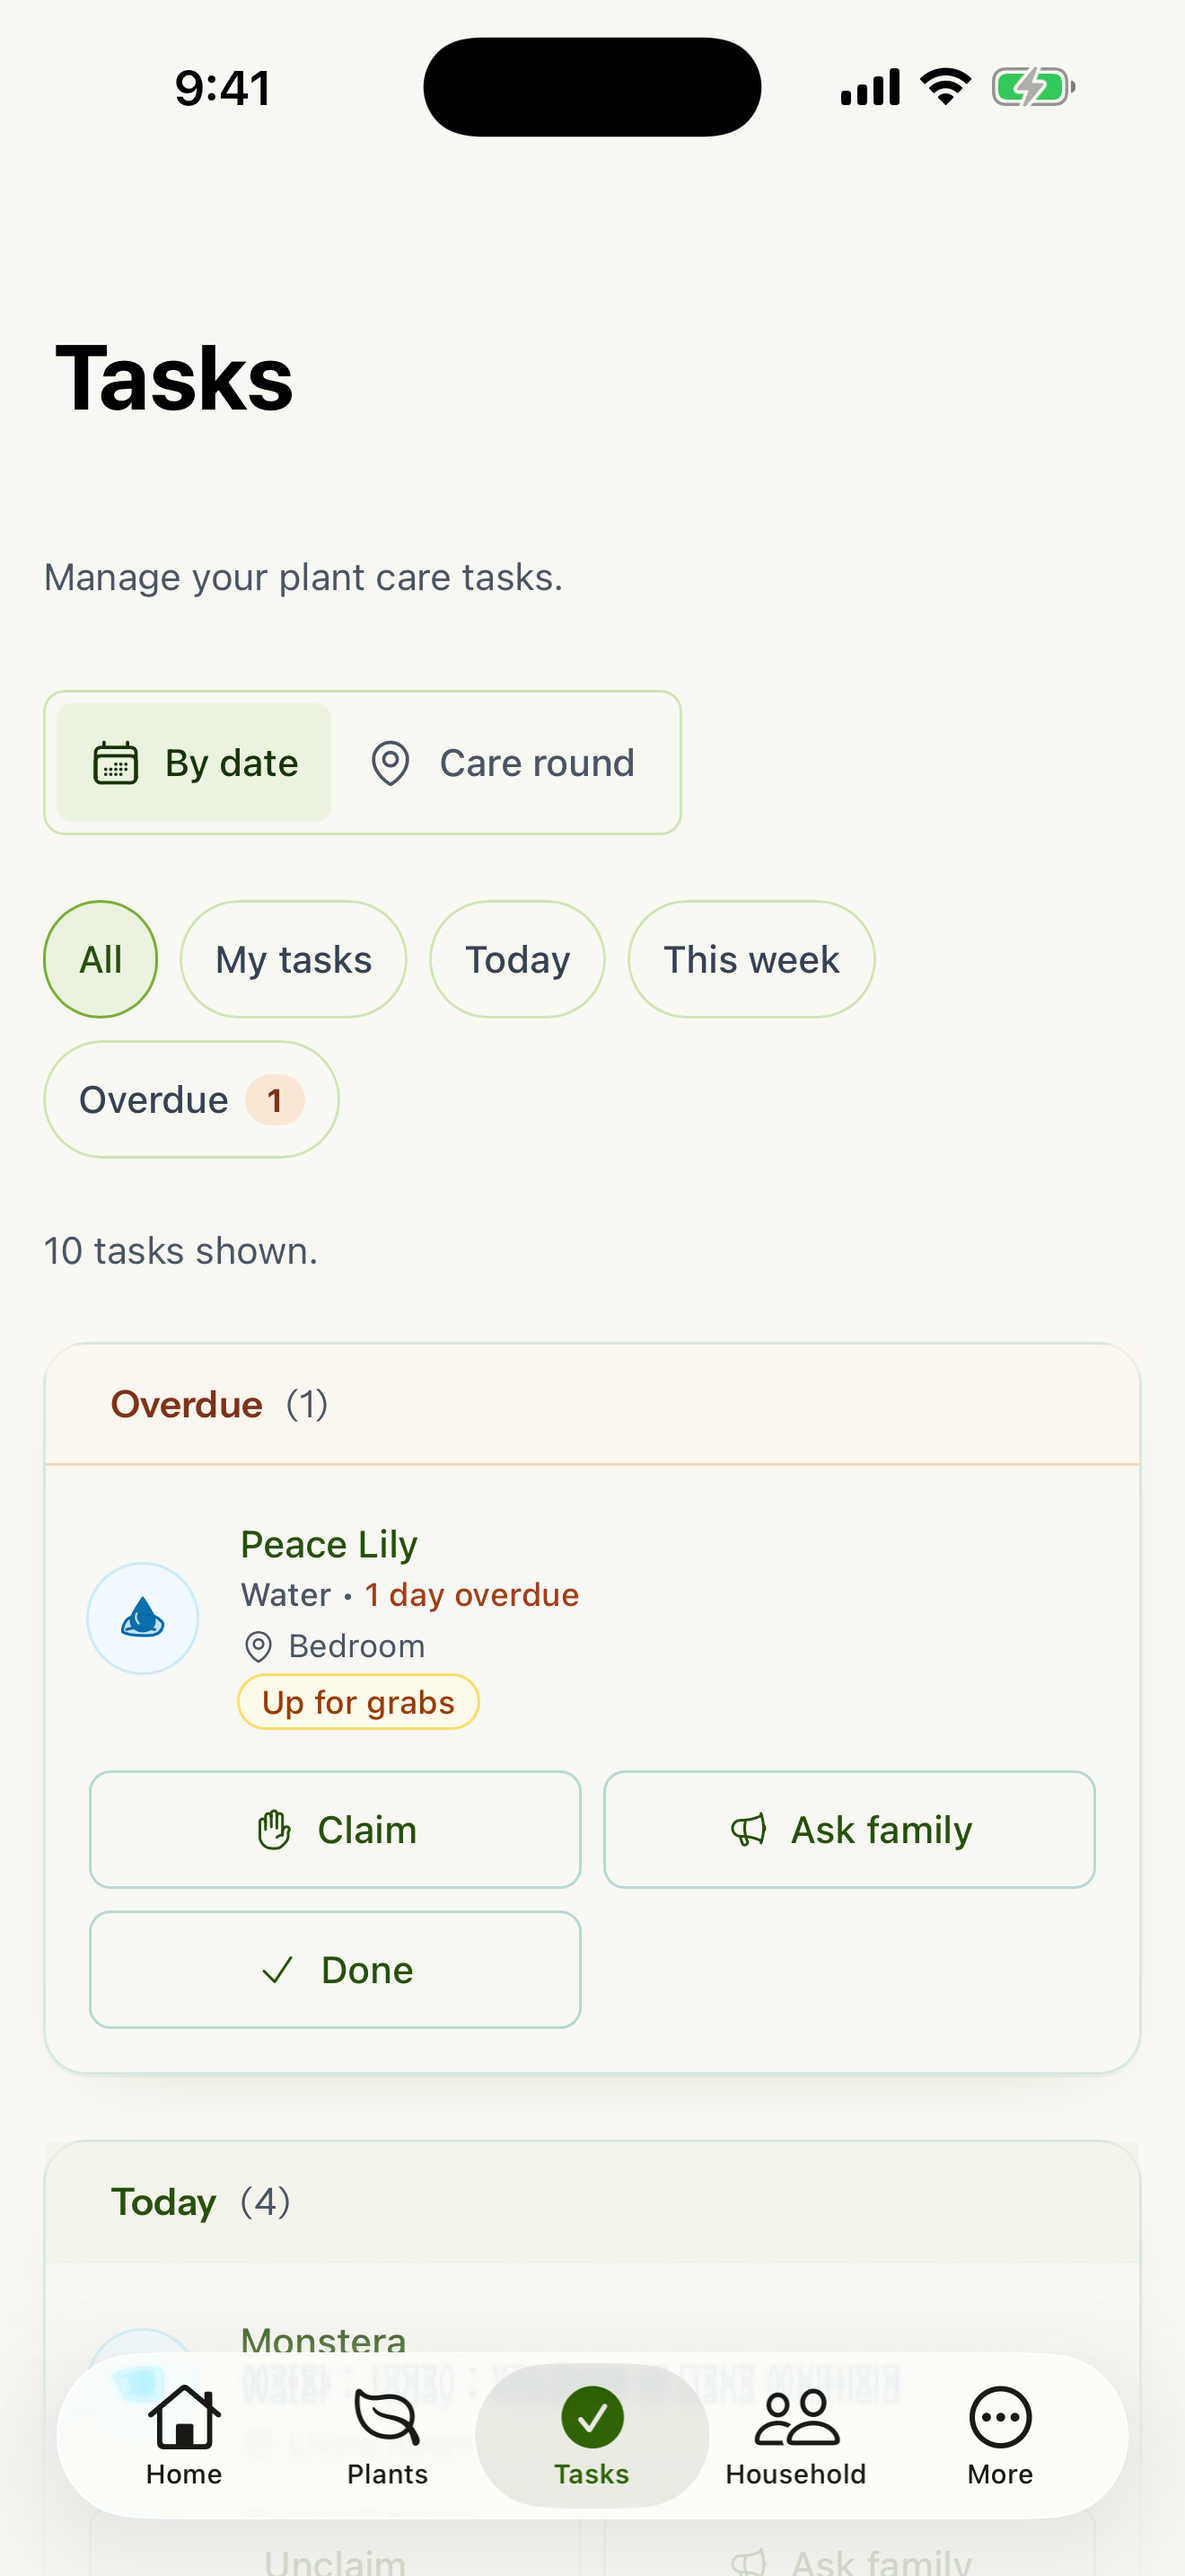
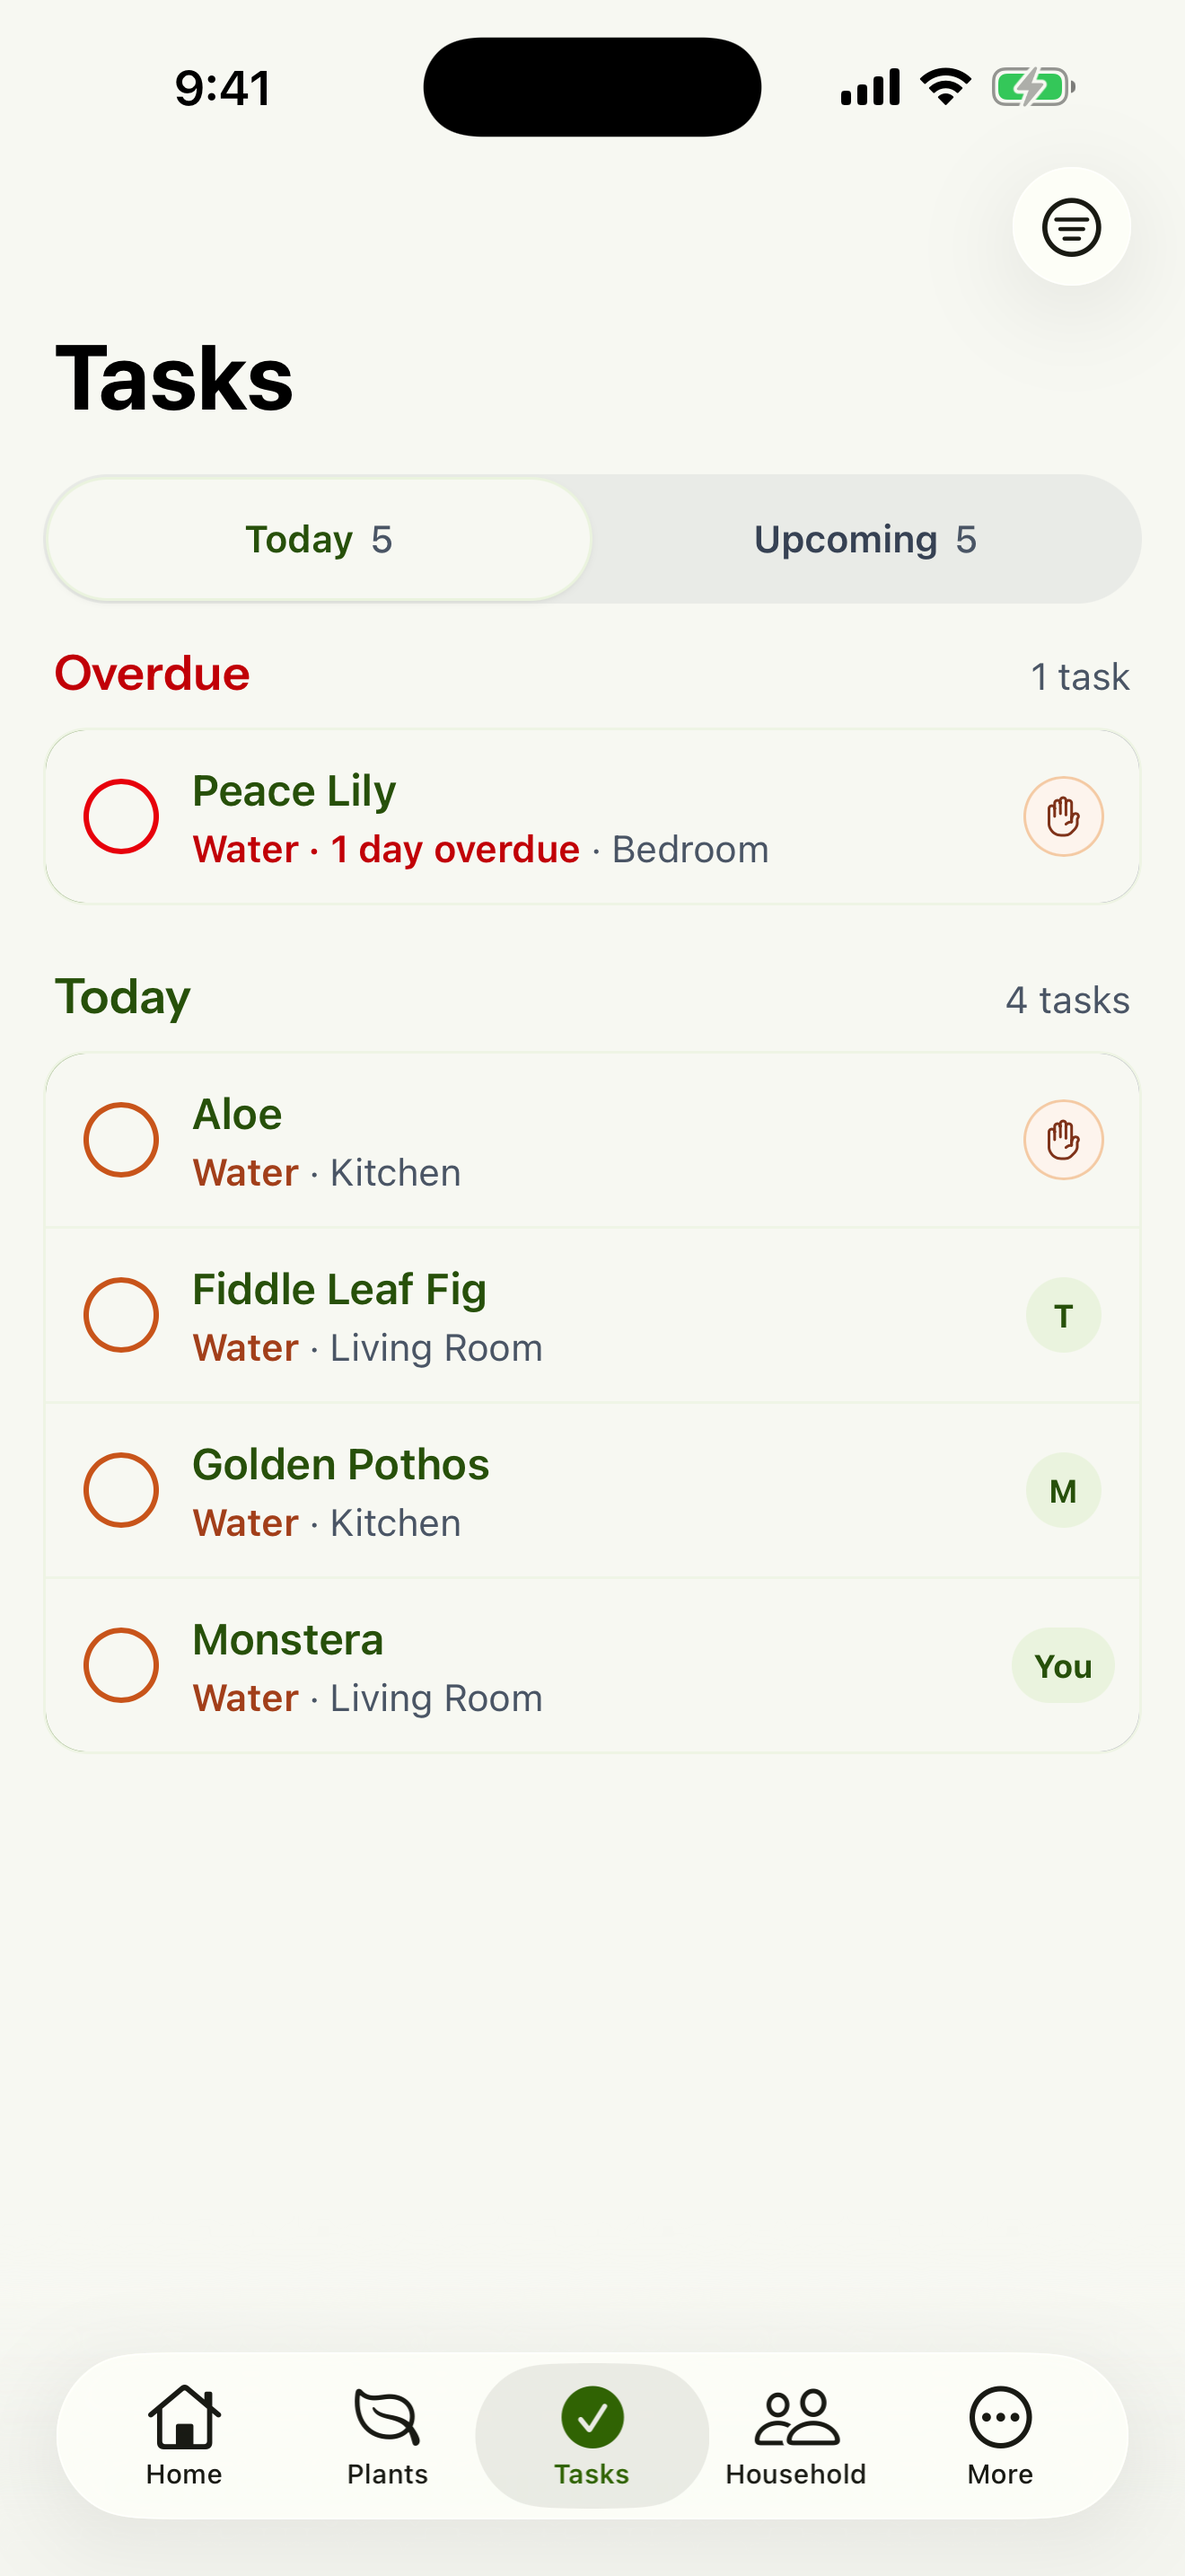
feat(store): re-take the iphone tasks screenshot for the checklist (#942)
The Tasks tab is now a checklist (#926 to #930), so 05-tasks showed a
screen the app no longer has. Re-taken from main with a fresh
SEED_STORE_DEMO=1 mock. The other seven frames still match main.

diff --git a/docs/APP-STORE.md b/docs/APP-STORE.md
@@ -324,16 +324,16 @@ exist at 1320 x 2868.
 The iPad frames come from `npm run store:screenshots --workspace frontend`
 (Playwright), as before.
 
-| #   | iPhone frame  | Real content                                                                                                                                                                                                                                                                                                           |
-| --- | ------------- | ---------------------------------------------------------------------------------------------------------------------------------------------------------------------------------------------------------------------------------------------------------------------------------------------------------------------- |
-| 01  | Plants        | The Plants tab: the large title, the ⋯, filter and + buttons in the native navigation bar, the search field, and the list led by "Needs care": 5 plants with what each needs, its room, who holds it ("You", a member's initial, or up for grabs) and a round water button; then "Coming up" with 3 more.              |
-| 02  | Home          | Dana's Home tab with its large title: 8 plants, 4 due today, 1 overdue; "To do now" with the overdue Peace Lily up for grabs and today's Monstera held by Dana Whitfield.                                                                                                                                              |
-| 03  | Plant detail  | The Monstera, opened from Plants (back chevron, title and ⋯ menu in the navigation bar): the status card ("Water today", "You · last by Marisol Reyes, 7 days ago", Watered and Snooze), the house rule ("Bottom-water this one") and the household's note. The thumbnail is the brand placeholder image, not a photo. |
-| 04  | Plant care    | The same page further down: the curated care tips for _Monstera deliciosa_ (light, water, humidity, notes) and its weekly watering task with its streak.                                                                                                                                                               |
-| 05  | Tasks         | The Tasks tab: the overdue Peace Lily marked "Up for grabs", with Claim, Ask family and Done.                                                                                                                                                                                                                          |
-| 06  | Household     | The Household tab: "Who's carrying the care", with each member's care in the last 30 days and jobs held now, and 4 jobs up for grabs.                                                                                                                                                                                  |
-| 07  | Plant sitter  | The page Dana's "Long weekend" sitter link opens, in the app: what needs doing, in which room, with Done buttons, no account needed, and the date the link stops working. The capture creates the link.                                                                                                                |
-| 08  | Notifications | Settings, Notifications: the email reminder, the weekly digest and the household emails, as switches. No push setting: this release sends reminders by email.                                                                                                                                                          |
+| #   | iPhone frame  | Real content                                                                                                                                                                                                                                                                                                                                             |
+| --- | ------------- | -------------------------------------------------------------------------------------------------------------------------------------------------------------------------------------------------------------------------------------------------------------------------------------------------------------------------------------------------------- |
+| 01  | Plants        | The Plants tab: the large title, the ⋯, filter and + buttons in the native navigation bar, the search field, and the list led by "Needs care": 5 plants with what each needs, its room, who holds it ("You", a member's initial, or up for grabs) and a round water button; then "Coming up" with 3 more.                                                |
+| 02  | Home          | Dana's Home tab with its large title: 8 plants, 4 due today, 1 overdue; "To do now" with the overdue Peace Lily up for grabs and today's Monstera held by Dana Whitfield.                                                                                                                                                                                |
+| 03  | Plant detail  | The Monstera, opened from Plants (back chevron, title and ⋯ menu in the navigation bar): the status card ("Water today", "You · last by Marisol Reyes, 7 days ago", Watered and Snooze), the house rule ("Bottom-water this one") and the household's note. The thumbnail is the brand placeholder image, not a photo.                                   |
+| 04  | Plant care    | The same page further down: the curated care tips for _Monstera deliciosa_ (light, water, humidity, notes) and its weekly watering task with its streak.                                                                                                                                                                                                 |
+| 05  | Tasks         | The Tasks tab as a checklist: the large title, the filter button in the native navigation bar, and Today / Upcoming (5 each). "Overdue" leads with the Peace Lily (water, 1 day overdue, Bedroom, up for grabs), then "Today" with Aloe (up for grabs), Fiddle Leaf Fig ("T"), Golden Pothos ("M") and Monstera ("You"), each with a round check circle. |
+| 06  | Household     | The Household tab: "Who's carrying the care", with each member's care in the last 30 days and jobs held now, and 4 jobs up for grabs.                                                                                                                                                                                                                    |
+| 07  | Plant sitter  | The page Dana's "Long weekend" sitter link opens, in the app: what needs doing, in which room, with Done buttons, no account needed, and the date the link stops working. The capture creates the link.                                                                                                                                                  |
+| 08  | Notifications | Settings, Notifications: the email reminder, the weekly digest and the household emails, as switches. No push setting: this release sends reminders by email.                                                                                                                                                                                            |
 
 Google Play's `store-assets/google-play/phone/` has the same four web frames
 as the iPad set, plus `app-icon-512.png` and `feature-graphic-1024x500.png`.

diff --git a/store-assets/README.md b/store-assets/README.md
@@ -43,7 +43,11 @@ On a Mac with Xcode and the iOS 26 simulator runtime:
    `xcodebuild`, boots the simulator if it's off (and shuts it down again
    afterward), and writes the PNGs here. Pass `--udid <id>` if you have more
    than one iPhone 17 Pro Max simulator, or a different 6.9-inch iPhone.
-3. Look at every frame before committing it.
+3. Look at every frame before committing it, and commit only the frames whose
+   UI changed. The demo's due dates are relative to the day, but the time of
+   day still shows: a capture on 2026-10-04 at about 2 p.m. Pacific showed
+   today's jobs on the sitter page (07) as "Overdue", while one at 4 a.m. showed
+   them as "Due today". Take 07 in the morning.
 
 How it drives the app: `frontend/scripts/store-shots/tour.js` is copied into
 the synced web folder of that one simulator build (`ios/App/App/public`,
@@ -63,7 +67,7 @@ size and saved without an alpha channel.
 | `02-home`          | Home: the large title, the day's counts, and "To do now" with the overdue Peace Lily up for grabs and today's jobs held by named members.                                                        |
 | `03-plant-detail`  | The Monstera, opened from the list: back chevron and ⋯ menu, the status card ("Water today", held by you, last done by Marisol Reyes, Watered and Snooze), its house rule and note.              |
 | `04-plant-care`    | Further down the same page: the curated care tips for _Monstera deliciosa_ and its weekly watering task with its streak.                                                                         |
-| `05-tasks`         | Tasks, with the overdue job marked "Up for grabs" and the Claim, Ask family and Done actions.                                                                                                    |
+| `05-tasks`         | The Tasks checklist: the filter button in the native bar, Today and Upcoming (5 each), the overdue Peace Lily first, then today's four, each with a check circle and who holds it.               |
 | `06-household`     | Household: who did the care in the last 30 days, who holds what now, and the four jobs nobody holds.                                                                                             |
 | `07-sitter`        | The page a plant-sitter link opens: what needs doing and in which room, with Done buttons and no account, until the link expires.                                                                |
 | `08-notifications` | Settings, Notifications: the email reminder, weekly digest and household email settings as switches.                                                                                             |
